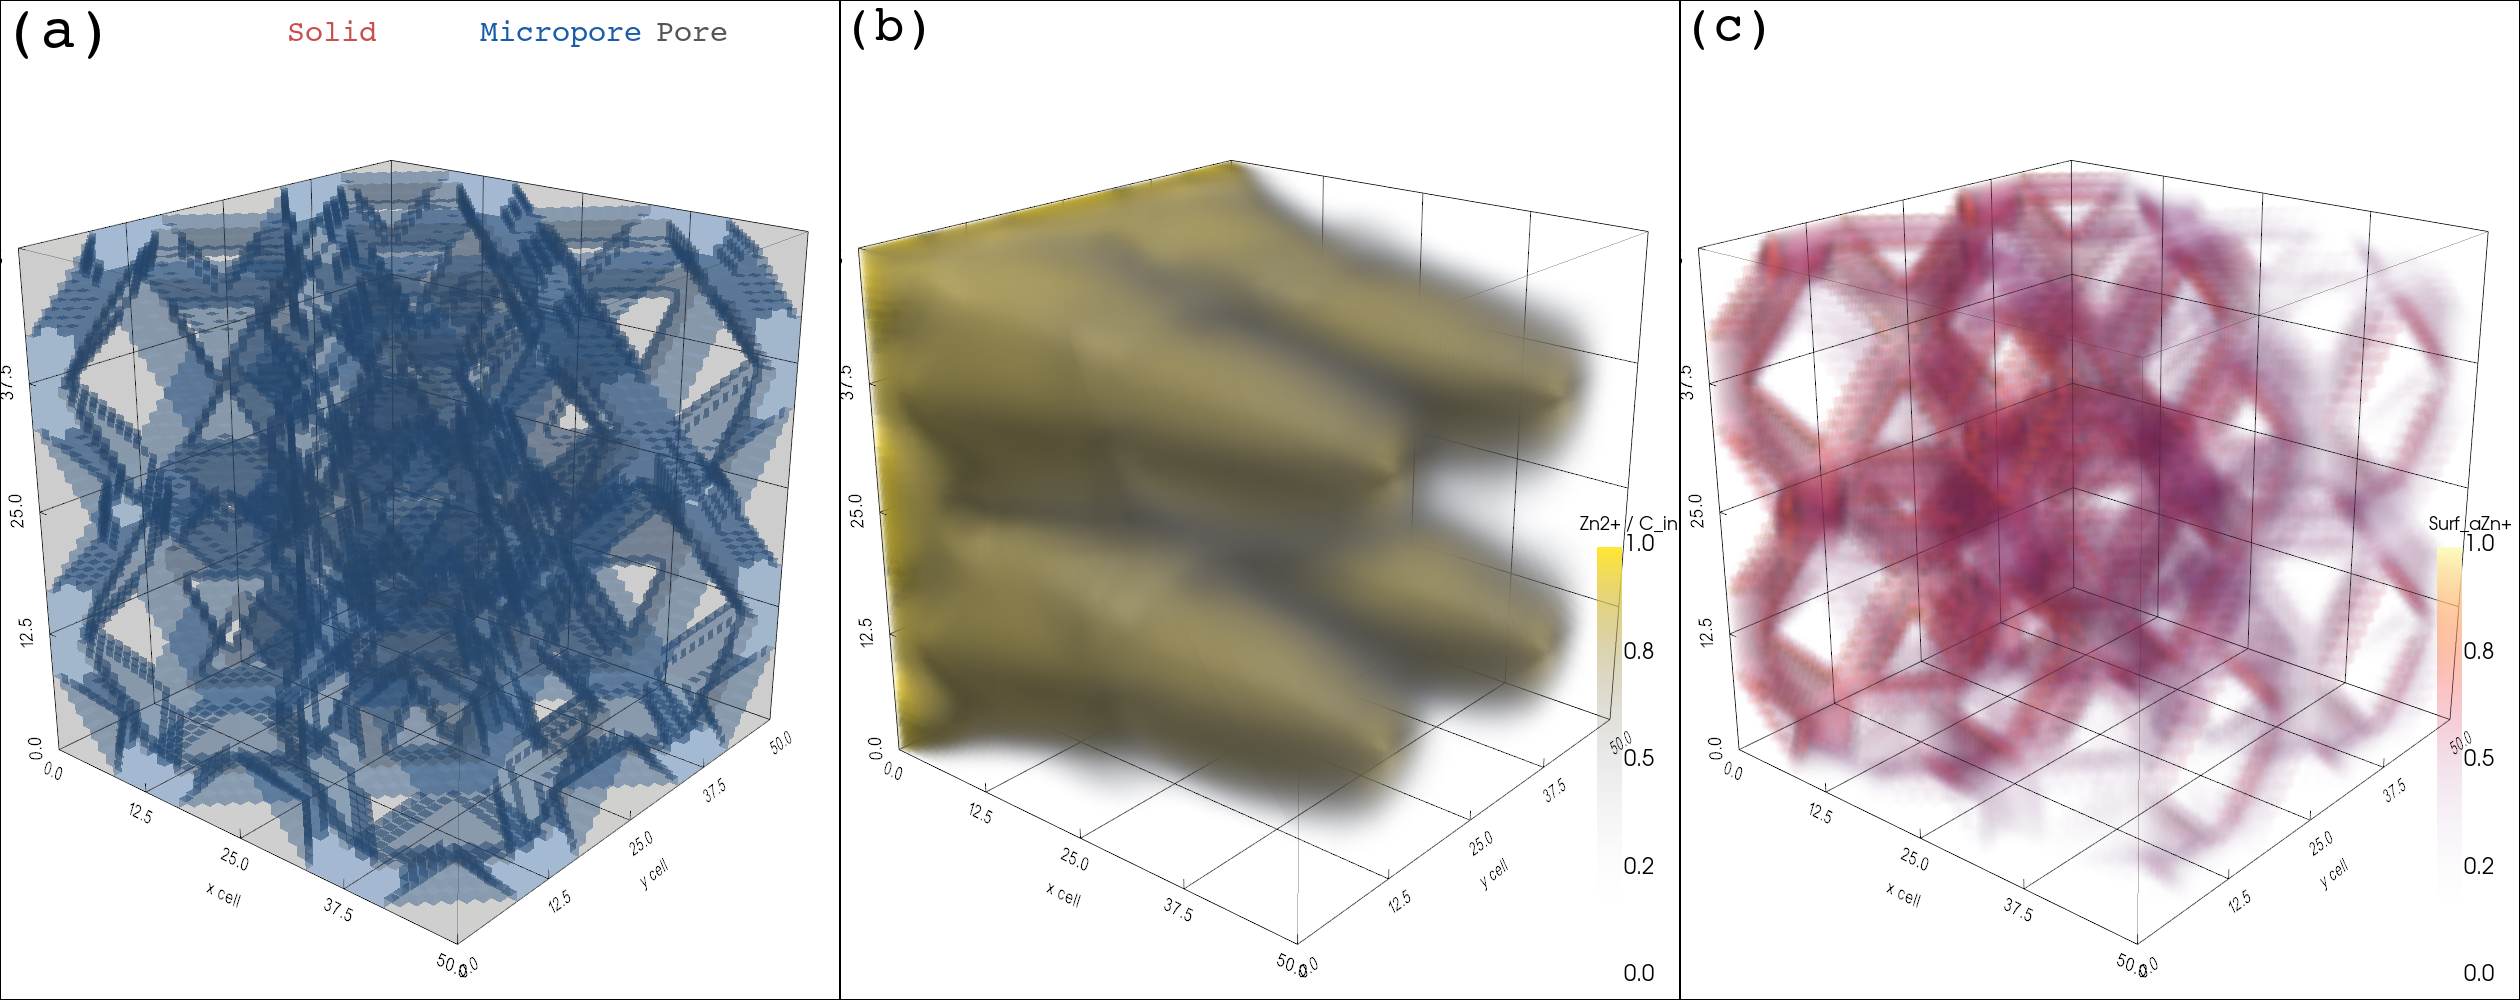
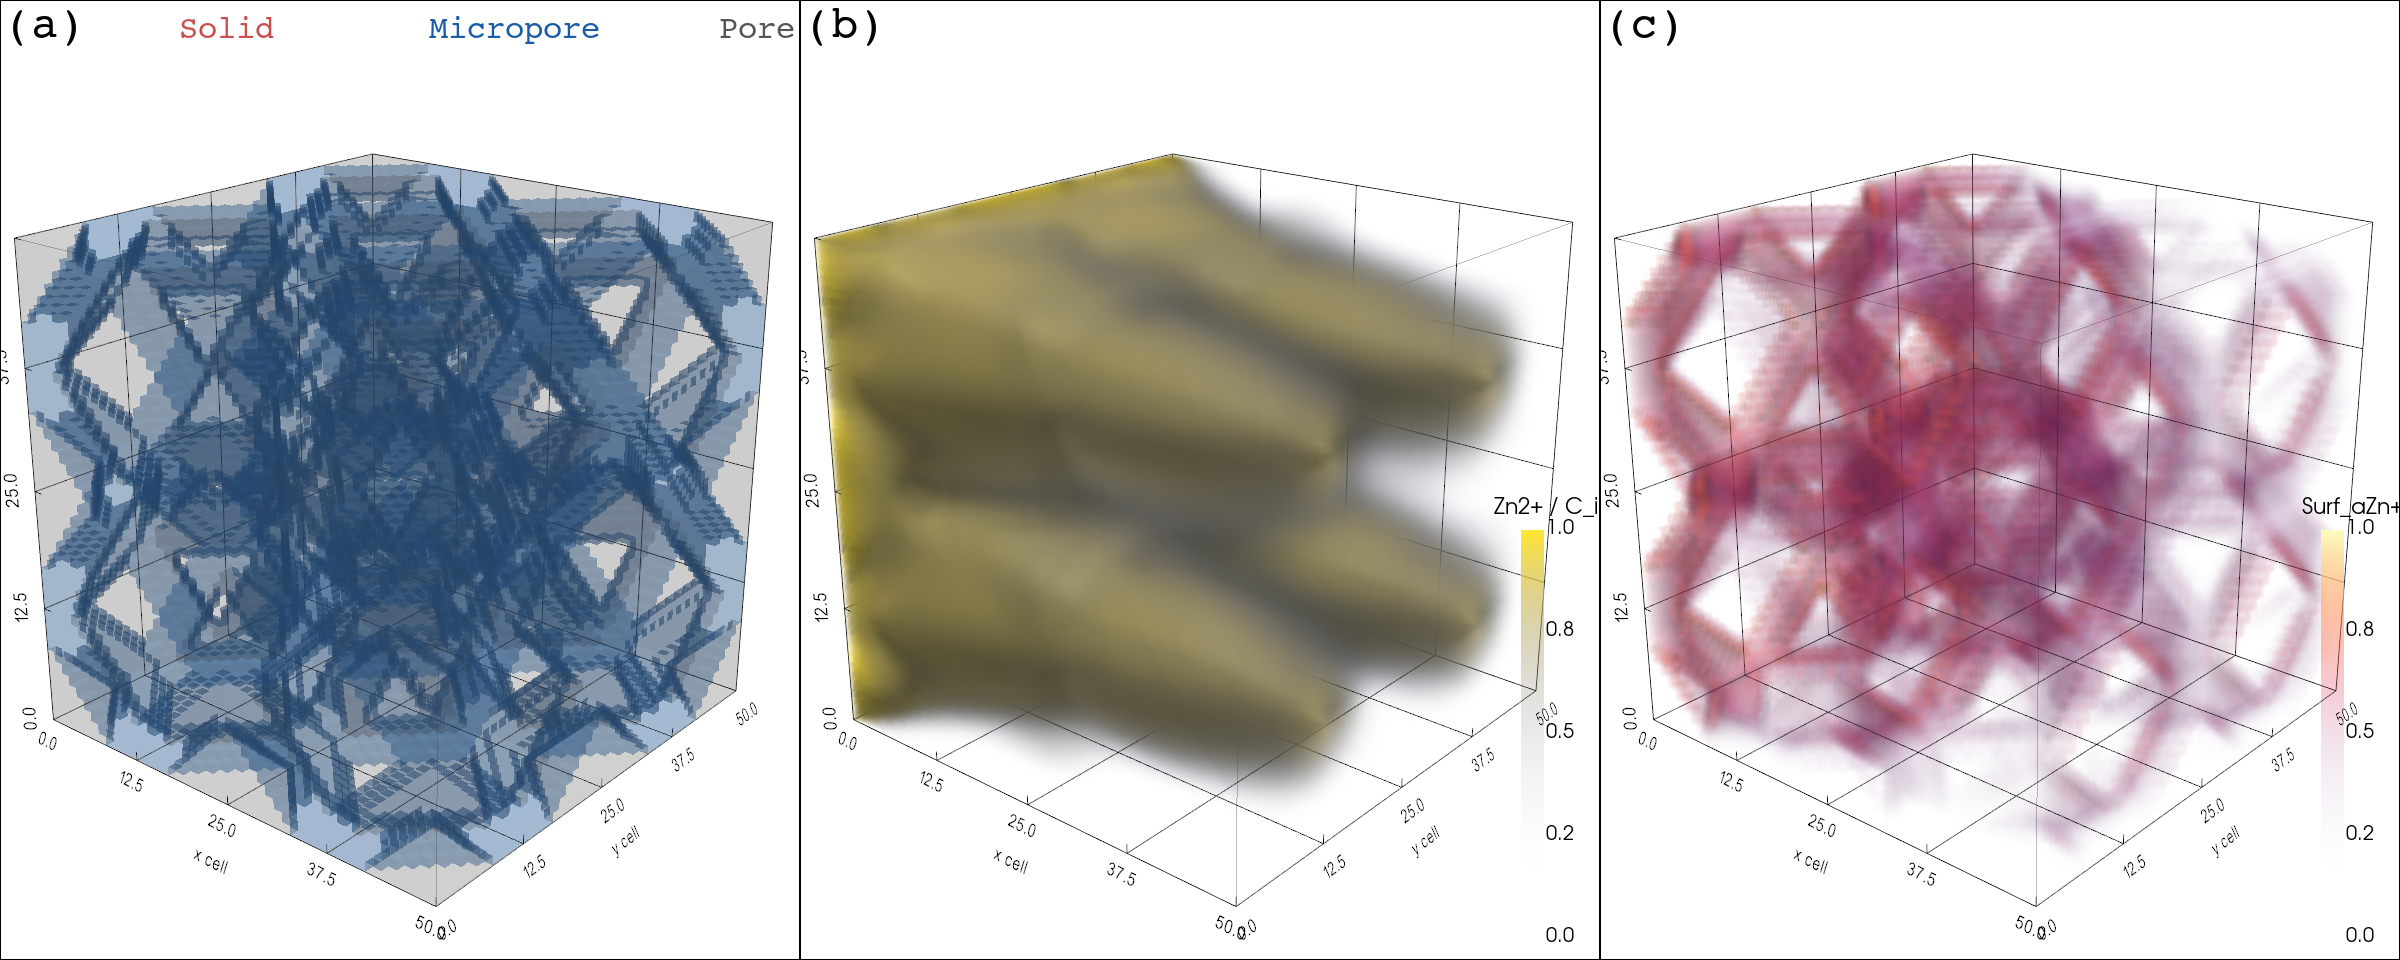
fix: readable colorbar text, even legend spacing, correct window sizing
- Resize render windows to 2400x960 (1x3) and 3200x3200 (2x2) for
  correct print-target resolution (~300 DPI at 172mm column width)
- Auto-size scalar bars (remove explicit width/height) so VTK lays
  out title and labels without clipping
- Set title_font_size=22, label_font_size=20 for both figures
- Fix geometry legend spacing: compute equal visual gaps between items
  accounting for per-item text width in Courier monospace
- Set legend font_size=16, panel label font_size=18

diff --git a/figures/scripts/generate_3d_volume_render_pyvista.py b/figures/scripts/generate_3d_volume_render_pyvista.py
@@ -197,24 +197,39 @@ def add_geometry_panel(
         line_width=1.0,
         opacity=0.35,
     )
-    plotter.add_text(panel_label, position="upper_left", font_size=24, color="black", font="courier")
+    plotter.add_text(panel_label, position="upper_left", font_size=18, color="black", font="courier")
     # Legend: placed in upper-right of the geometry subplot viewport.
     # For 1×3 window (2520×1000): panel (a) is cols 0..839, so x=500, y tops at ~920px.
     # For 2×2 window (2800×2800): panel (a) is cols 0..1399, rows 1400..2799, so x=900, y~2700.
     # We use plotter.window_size to pick appropriate coords.
     # Place legend in white strip above the 3D bounding box (viewport y > 0.90)
-    legend_positions = [(0.32, 0.95), (0.55, 0.95), (0.76, 0.95)]
-    for i, (_, name, color, _) in enumerate(phase_defs):
+    # Evenly distribute 3 items across top strip accounting for text widths.
+    # "■ Solid"=8, "■ Micropore"=12, "■ Pore"=7 chars in Courier monospace.
+    # Equal visual gap between end-of-item and start-of-next.
+    legend_items = [(name, color) for (_, name, color, _) in phase_defs]
+    char_widths = [len(f"\u25a0 {n}") for (n, _) in legend_items]
+    # Courier at 16pt: char width ≈ 10px; panel width ≈ window_w / ncols
+    win_w = plotter.window_size[0]
+    panel_w = win_w / plotter.shape[1]
+    char_px = 10.0 / panel_w  # fraction of panel width per char
+    text_widths = [w * char_px for w in char_widths]
+    x_start = 0.20
+    x_end = 0.95
+    total_text = sum(text_widths)
+    gap = (x_end - x_start - total_text) / (len(legend_items) - 1)
+    x = x_start
+    for (name, color), tw in zip(legend_items, text_widths):
         actor = plotter.add_text(
             f"\u25a0 {name}",
-            position=legend_positions[i],
+            position=(x, 0.95),
             viewport=True,
-            font_size=15,
+            font_size=16,
             color=color,
             font="courier",
         )
         actor.GetTextProperty().SetBackgroundColor(1.0, 1.0, 1.0)
         actor.GetTextProperty().SetBackgroundOpacity(0.0)
+        x += tw + gap
     plotter.show_bounds(
         grid="back",
         location="outer",
@@ -264,10 +279,9 @@ def add_volume_panel(
             "title": scalar_bar_title,
             "vertical": True,
             "fmt": "%.1f",
-            "title_font_size": 18,
-            "label_font_size": 22,
-            "width": 0.08,
-            "height": 0.45,
+            "title_font_size": 22,
+            "label_font_size": 20,
+            "n_labels": 5,
         },
     )
     plotter.add_mesh(
@@ -276,7 +290,7 @@ def add_volume_panel(
         line_width=1.0,
         opacity=0.35,
     )
-    plotter.add_text(panel_label, position="upper_left", font_size=20, color="black", font="courier")
+    plotter.add_text(panel_label, position="upper_left", font_size=18, color="black", font="courier")
     plotter.show_bounds(
         grid="back",
         location="outer",
@@ -373,7 +387,7 @@ def main() -> None:
 
     use_2x2 = second_aqueous is not None
     shape = (2, 2) if use_2x2 else (1, 3)
-    win_size = (2800, 2800) if use_2x2 else (2520, 1000)
+    win_size = (3200, 3200) if use_2x2 else (2400, 960)
     plotter = pv.Plotter(shape=shape, off_screen=True, window_size=win_size)
 
     add_geometry_panel(
